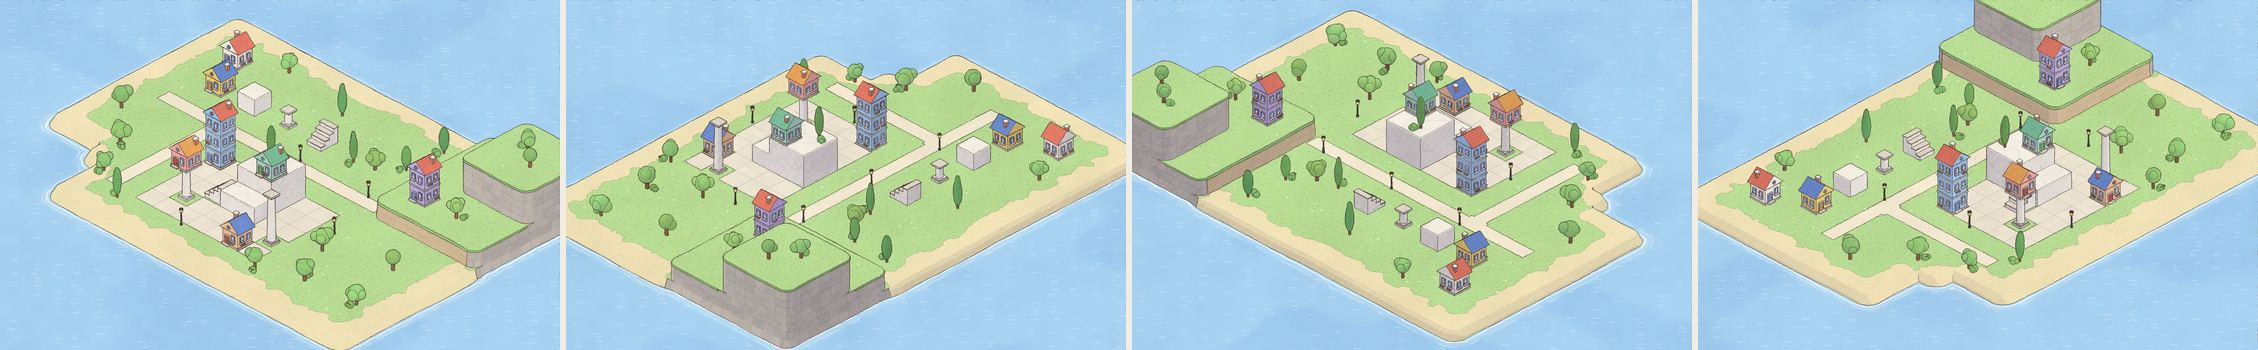
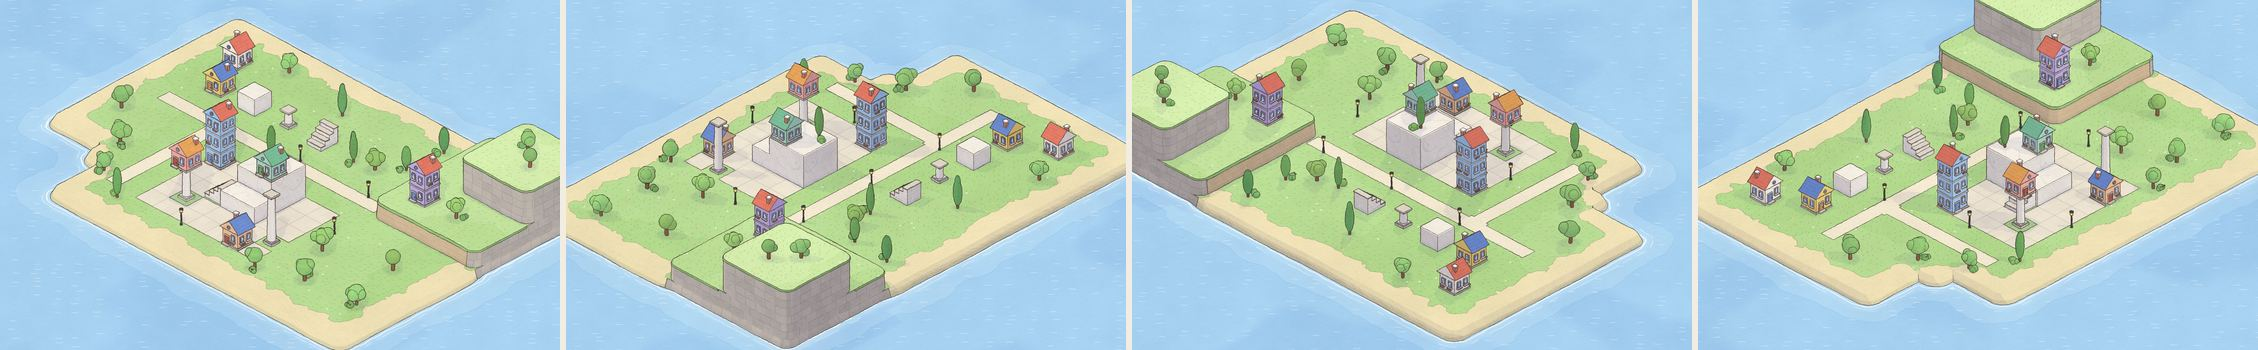
Look: hatching lies on the surface; art guide updated for the second pass
Hatching is laid in each surface's own plane, so it no longer slides when
the view orbits or zooms; its spacing on the page still holds at every zoom
(the spacing halves as the zoom doubles and the new strokes fade in between
the old). terraceGrass(level) gives the terrain's grass colour for lawn and
garden pieces. ART.md gains 'Changes since Stage 1' and a grounding section
with pictures; look.md lists what changed for other owners.

diff --git a/src/render/shaders/surface.ts b/src/render/shaders/surface.ts
@@ -5,7 +5,7 @@
 //   vertex    slot matrix (things that move), wind sway, varyings
 //   fragment  flat stepped shading from one fixed light (3–4 tones, shadows
 //             drifting cool), then the surface's pencil pattern, then
-//             screen-space pencil hatching in the shaded tones
+//             pencil hatching in the shaded tones and the grounding shade
 //   outputs   location 0: colour (sRGB) and glow in alpha
 //             location 1: view normal (xy) and the ink id (two bytes), which
 //             the composite pass turns into ink lines
@@ -198,6 +198,25 @@ float grounding(vec3 n){
     return max(foot, eave);
   }
   return 0.0;
+}
+
+// One layer of pencil strokes on a surface. p is a position in the surface's own plane (world
+// units) and dir the direction the strokes run in that plane, so the strokes belong to the surface
+// and do not slide over it when the view moves. Their spacing on the page still stays near
+// uHatchSpacing at every zoom: each time the zoom doubles the spacing halves, and the new strokes
+// fade in between the old ones, which stay exactly where they were.
+float hatchLayer(vec2 p, vec2 dir, float seed){
+  float lod = log2(max(uCss, 1.0) / 32.0);
+  float o = floor(lod), fr = lod - o, scr = exp2(fr);
+  vec2 q = p * (32.0 * exp2(o) / uHatchSpacing);          // in stroke spacings
+  float hv = dot(q, vec2(-dir.y, dir.x)) + (mix(n2(q * 0.16 + seed), n2(q * 0.32 + seed), fr) - 0.5) * 1.1 / scr;
+  float ha = dot(q, dir);
+  float d = abs(fract(hv) - 0.5);
+  float stroke = 1.0 - smoothstep(0.14 / scr, 0.36 / scr, d);
+  float between = (1.0 - smoothstep(0.14 / scr, 0.36 / scr, 0.5 - d)) * smoothstep(0.1, 0.9, fr);
+  // The pencil lifts here and there: patches of strokes, not a ruled screen.
+  float lifted = mix(n2(vec2(hv * 0.9 + seed, ha * 0.2)), n2(vec2(hv * 1.8 + seed, ha * 0.4)), fr);
+  return max(stroke, between) * smoothstep(0.3, 0.62, lifted);
 }
 
 float lineAA(float d, float w){ float fw = fwidth(d) * 1.2; return 1.0 - smoothstep(w - fw, w + fw, d); }
@@ -596,26 +615,21 @@ void main(){
       col = mix(col, shade(uFoam, s), lineAA(abs(fract(x) - 0.5), 0.08) * step(0.5, h1(vec2(floor(x), 0.0))) * 0.5 * fade(0.11));
     }
 
-    // ── pencil hatching in the shade. It is laid on the page, not on the surface (strokes keep one
-    //    density at every zoom), but it is anchored to the world so it does not slide when you pan.
-    vec2 sp = vec2(dot(vW, uCamRight), dot(vW, uCamUp)) * uCss;
-    float ang = 0.95 + (h1(vId * 91.7) - 0.5) * 0.4;
+    // ── pencil hatching in the shade, laid on the surface itself (see hatchLayer): it stays put when
+    //    the view pans, orbits or zooms.
+    bool flatish = abs(n.y) > 0.7;
+    vec2 hp = flatish ? vW.xz : vec2(dot(vW.xz, tang), vW.y);
+    float ang = (flatish ? 0.35 : 0.95) + (h1(vId * 91.7) - 0.5) * 0.4;
     vec2 hd = vec2(cos(ang), sin(ang));
-    float hv = dot(sp, vec2(-hd.y, hd.x)) / uHatchSpacing + (n2(sp * 0.03) - 0.5) * 1.1;
-    float ha = dot(sp, hd);
-    float stroke = 1.0 - smoothstep(0.14, 0.36, abs(fract(hv) - 0.5));
-    float broken = smoothstep(0.3, 0.62, n2(vec2(floor(hv) * 7.3, ha * 0.04)));
     float depth = s > 0.95 ? 0.22 : (s > 0.85 ? 0.5 : (s > 0.75 ? 0.8 : 1.0));
     // Grounding: a cooler, darker tone, and the pencil pressed harder there.
     float gnd = hatchable > 0.5 ? grounding(n) * uGround : 0.0;
     col *= mix(vec3(1.0), vec3(0.76, 0.77, 0.9), gnd);
     depth = max(depth, gnd * 1.15);
-    float amount = stroke * broken * depth;
+    float amount = hatchLayer(hp, hd, 0.0) * depth;
     if (s < 0.75) {
       // the darkest faces get a second, crossing layer
-      float hv2 = dot(sp, hd) / (uHatchSpacing * 1.3) + (n2(sp * 0.03 + 9.0) - 0.5) * 1.1;
-      float stroke2 = 1.0 - smoothstep(0.14, 0.36, abs(fract(hv2) - 0.5));
-      amount = max(amount, stroke2 * smoothstep(0.35, 0.65, n2(vec2(floor(hv2) * 5.1, dot(sp, vec2(-hd.y, hd.x)) * 0.04))) * 0.6);
+      amount = max(amount, hatchLayer(hp / 1.3, vec2(-hd.y, hd.x), 9.0) * 0.6);
     }
     col *= 1.0 - uHatch * hatchable * amount * 0.17;
     col = mix(col, uInk, clamp(pen * uPencil, 0.0, 1.0));

diff --git a/src/gen/terrain/terrain.gen.ts b/src/gen/terrain/terrain.gen.ts
@@ -36,9 +36,9 @@ import { hashCombine, rand } from '@/core/rand';
 import { MAT, type Terrain, type World } from '@/core/world';
 import type { ShapePlan } from '@/resolve/plan';
 import { PALETTE } from '@/style/palette';
-import { TERRAIN } from '@/style/terrain';
+import { terraceGrass, TERRAIN } from '@/style/terrain';
 import { defineLayer } from '../api';
-import { MeshBuilder, parseColor, PATTERN } from '../mesh';
+import { MeshBuilder, PATTERN } from '../mesh';
 
 /** Segments in a quarter-circle of outline. */
 const ARC = 6;
@@ -125,13 +125,6 @@ function edgeKind(g: Ground, hx: number, hz: number, lx: number, lz: number, lev
   return { shore, run, lip: shore !== 'sand' && m === MAT.grass && hi === level };
 }
 const harder = (a: EdgeKind, b: EdgeKind): EdgeKind => (HARDNESS[b.shore] > HARDNESS[a.shore] ? b : a);
-
-/** Grass colour by level: each terrace above the first is a step lighter, so plateaus read from every side. */
-function grassAt(level: number): [number, number, number] {
-  const a = parseColor(PALETTE.grass), b = parseColor(PALETTE.grassHigh);
-  const t = Math.min(1, Math.max(0, level - 1) * TERRAIN.levelTint);
-  return [Math.round(a[0] + (b[0] - a[0]) * t), Math.round(a[1] + (b[1] - a[1]) * t), Math.round(a[2] + (b[2] - a[2]) * t)];
-}
 
 // ───────────────────────────────────────────────────────────── emitters ──
 
@@ -241,7 +234,7 @@ function emitQuarter(b: MeshBuilder, g: Ground, x: number, z: number, sx: number
   };
   const rockTop = inA && hA === level && g.mat(x, z) === MAT.rock;
   if (rockTop) b.setColor(PALETTE.rock).setPattern(PATTERN.rock).setInk(`rocktop${level}`);
-  else b.setColor(grassAt(level)).setPattern(PATTERN.grass).setInk(`ground${level}`);
+  else b.setColor(terraceGrass(level)).setPattern(PATTERN.grass).setInk(`ground${level}`);
   const arc = (i: number): [number, number] => {
     const phi = (i / ARC) * (Math.PI / 2);
     return [r - r * Math.sin(phi), r - r * Math.cos(phi)];

diff --git a/src/gen/terrain/terrain.test.ts b/src/gen/terrain/terrain.test.ts
@@ -7,6 +7,7 @@ import { TerrainBuilder, TownBuilder } from '@/scenario';
 import { emptyWorld } from '@/world/world';
 import { inkGroups, validateMesh } from '../checks';
 import { EDGE_FAR, PATTERN, triangleCount, type MeshData } from '../mesh';
+import { terraceGrass } from '@/style/terrain';
 import { buildTerrainChunk, terrainLayer } from './terrain.gen';
 
 /** A hand-made island with everything the mesh must handle: beach, steps, a 2-level cliff, a cove, a peak. */
@@ -87,6 +88,22 @@ describe('the terrain layer', () => {
     }
     expect(nearest).toBeGreaterThan(0.05); // a square corner would have a vertex at distance 0
     expect(nearest).toBeLessThan(0.32);
+  });
+
+  test('each terrace above the first is a step lighter, and terraceGrass says which green', () => {
+    const colorAt = (mesh: MeshData, level: number): number[] => {
+      for (let v = 0; v < mesh.pattern.length; v++) {
+        if (mesh.pattern[v] === PATTERN.grass && Math.abs(mesh.position[v * 3 + 1]! - level * CELL_H) < 1e-6) return [...mesh.color.subarray(v * 3, v * 3 + 3)];
+      }
+      return [];
+    };
+    const mesh = meshOf(plan, 20, 20);
+    expect(colorAt(mesh, 2)).toEqual(terraceGrass(2));
+    expect(colorAt(mesh, 4)).toEqual(terraceGrass(4));
+    const sum = (c: number[]): number => c[0]! + c[1]! + c[2]!;
+    expect(sum(terraceGrass(2))).toBeGreaterThan(sum(terraceGrass(1)));
+    expect(sum(terraceGrass(4))).toBeGreaterThan(sum(terraceGrass(2)));
+    expect(terraceGrass(1)).toEqual([0xb9, 0xdc, 0x94]); // the lowest land is the palette's grass
   });
 
   test('a drop of two or more is rock; one level is an earth bank with a grass lip; sand meets the sea as a beach', () => {

diff --git a/src/render/view.e2e.test.ts b/src/render/view.e2e.test.ts
@@ -184,6 +184,20 @@ describe('the view', () => {
     expect(errors).toEqual([]);
   });
 
+  test('hatching belongs to the surface: it does not pop where its spacing halves as the view zooms in', async () => {
+    // The stroke spacing halves each time the zoom doubles (here at 64 CSS pixels per unit: zoom 7.68 at
+    // this size). Old strokes stay where they are and new ones fade in between, so a hair either side of
+    // that zoom the picture is the same, just as it is for a hair's change anywhere else.
+    await look(`window.__look.open('look-primitives', { ink: 'full' })`);
+    const at = async (zoom: number): Promise<FrameSummary> => {
+      await look(`window.__look.camera({ yaw: 215, pitch: 30, zoom: ${zoom}, target: [21, 1.5, 24.5] })`);
+      return settled();
+    };
+    const across = differ(await at(7.675), await at(7.685));
+    const elsewhere = differ(await at(7.2), await at(7.21));
+    expect(across).toBeLessThan(elsewhere * 1.5 + 0.05);
+  });
+
   test('flat ground and open sea never ink over, however far out or low the view (phone, half ink)', async () => {
     for (const ink of ['half', 'full']) {
       await look(`window.__look.open('look-isle-1', { ink: '${ink}', pixelRatio: 2, width: 390, height: 844 })`);

diff --git a/src/style/terrain.ts b/src/style/terrain.ts
@@ -2,6 +2,7 @@
 // src/gen/terrain. All lengths are world units (a cell is 1 wide, 0.8 tall).
 
 import { defineStyle } from '@/core/style';
+import { PALETTE } from './palette';
 
 export const TERRAIN = defineStyle(
   'terrain',
@@ -48,3 +49,18 @@ export const TERRAIN = defineStyle(
     earthDepth: [0.2, 2, 0.05],
   },
 );
+
+/**
+ * The grass colour of the terrain at a level (1 is the lowest land): each terrace above the first
+ * leans a step toward PALETTE.grassHigh, so plateaus read from every side. A lawn or garden piece
+ * that should melt into the ground it lies on uses this instead of PALETTE.grass.
+ */
+export function terraceGrass(level: number): [number, number, number] {
+  const rgb = (hex: string): [number, number, number] => {
+    const n = Number.parseInt(hex.slice(1), 16);
+    return [(n >> 16) & 255, (n >> 8) & 255, n & 255];
+  };
+  const a = rgb(PALETTE.grass), b = rgb(PALETTE.grassHigh);
+  const t = Math.min(1, Math.max(0, level - 1) * TERRAIN.levelTint);
+  return [Math.round(a[0] + (b[0] - a[0]) * t), Math.round(a[1] + (b[1] - a[1]) * t), Math.round(a[2] + (b[2] - a[2]) * t)];
+}

diff --git a/scenarios/look/look-primitives.scenario.ts b/scenarios/look/look-primitives.scenario.ts
@@ -84,6 +84,10 @@ export default scenario({
     { name: 'night', yaw: 45, pitch: 32, zoom: 3.3, target: [23, 1, 23.5], time: 'night' },
     { name: 'night-close', yaw: 45, pitch: 32, zoom: 8.5, target: [23, 2, 26], time: 'night' },
     { name: 'dawn', yaw: 135, pitch: 30, zoom: 5, target: [23, 1.5, 24], time: 'dawn' },
+    // From the north-west the shadow side faces the viewer: the grounding shade, by day and at dusk.
+    { name: 'shade', yaw: 215, pitch: 30, zoom: 7.5, target: [21, 1.5, 24.5] },
+    { name: 'shade-dusk', yaw: 215, pitch: 30, zoom: 7.5, target: [21, 1.5, 24.5], time: 'dusk' },
+    { name: 'shade-night', yaw: 215, pitch: 30, zoom: 7.5, target: [21, 1.5, 24.5], time: 'night' },
   ],
   expect(plan, dressing, check) {
     check.kind(20, 3, 24, 'house');

diff --git a/docs/swarm/art/make-images.py b/docs/swarm/art/make-images.py
@@ -5,6 +5,8 @@
     npm run shots -- look-island     --scale 2 --out .context/art
     npm run shots -- look-swatches   --scale 2 --out .context/art --size 1600x900
     npm run shots -- look-dodont     --scale 2 --out .context/art --size 1600x700
+    npm run shots -- look-generated-2 --scale 2 --out .context/art
+    node docs/swarm/art/ghost-shot.mjs
     python3 docs/swarm/art/make-images.py
 
 Needs Pillow. Every output is a JPEG under 300 kB.
@@ -197,6 +199,36 @@ def terrain():
     save(out, "terrain.jpg", 80)
 
 
+def grounding():
+    names = [("look-primitives-shade", "day: contact, cover and a short cast shade"), ("look-primitives-shade-dusk", "dusk: the light is low, the shade reaches further")]
+    w = 800
+    tiles = [fit(shot(n), w) for n, _ in names]
+    h = tiles[0].size[1]
+    out = Image.new("RGB", (w * 2 + 8, h), PAPER)
+    d = ImageDraw.Draw(out)
+    for i, (tile, (_, text)) in enumerate(zip(tiles, names)):
+        out.paste(tile, (i * (w + 8), 0))
+        label(d, (i * (w + 8) + 12, 10), text)
+    save(out, "grounding.jpg", 82)
+
+
+def ghost():
+    im = shot("ghost")
+    w, h = im.size
+    save(fit(im.crop((round(w * 0.14), round(h * 0.08), round(w * 0.92), round(h * 0.86))), 1000), "ghost.jpg", 84)
+
+
+def island():
+    a, b = fit(shot("look-generated-2-sw"), 800), fit(shot("look-generated-2-dusk"), 800)
+    out = Image.new("RGB", (1608, a.size[1]), PAPER)
+    out.paste(a, (0, 0))
+    out.paste(b, (808, 0))
+    d = ImageDraw.Draw(out)
+    label(d, (12, 10), "a generated island by day")
+    label(d, (820, 10), "and at dusk")
+    save(out, "island.jpg", 80)
+
+
 def quarters():
     names = ["hero", "hero-se", "hero-nw", "hero-ne"]
     w = 560
@@ -210,6 +242,6 @@ def quarters():
 
 if __name__ == "__main__":
     only = sys.argv[1:]
-    for fn in (hero, spike_vs_engine, proportions, patterns, do_dont, times, night_close, terrain, quarters):
+    for fn in (hero, spike_vs_engine, proportions, patterns, do_dont, times, night_close, terrain, quarters, grounding, ghost, island):
         if not only or fn.__name__ in only:
             fn()

diff --git a/docs/swarm/ART.md b/docs/swarm/ART.md
@@ -6,6 +6,39 @@ examples are real code: `scenarios/look/fixtures/` holds the spike's house,
 tree, marble, pillar, stairs and lamp rebuilt with `MeshBuilder`, and every
 picture here comes from `npm run shots -- 'look-*'`.
 
+## Changes since Stage 1
+
+Nothing below asks you to redo anything; every rule in the rest of this
+guide still stands. These are things the page now does for you, and what
+follows from them.
+
+1. **Pieces are grounded by the page** (new section 11). Contact shade round
+   the foot of everything, shade under anything that overhangs, a short cast
+   shade on the side away from the light, a darker foot on walls. You do
+   nothing, and you must not fake any of it: no dark base bands, no shadow
+   quads, no darker colour under an eave. Do build real overhangs (eaves,
+   awnings, balconies, arch soffits) of 0.08 or more: they now shade what is
+   under them. And pieces must still really stand on the ground: the shade
+   is worked out from above and does not hide a gap under a piece.
+2. **Hatching lies on the surface**, in the surface's own plane, and each ink
+   group gets a slightly different stroke angle. It needs nothing but correct
+   normals. It no longer slides when the view orbits or zooms.
+3. **The ghost preview is a pencil sketch of your piece**: a pale wash of its
+   colours with pencil lines exactly where its ink lines will be (section
+   4). Patterns are left out. So a piece with good ink groups previews well,
+   and one with none previews as a blank shape.
+4. **Terrain grass is a step lighter on each terrace above the first**, and
+   has wandering patches of deeper meadow. A lawn or garden piece that should
+   melt into the ground it lies on takes its colour from
+   `terraceGrass(level)` in `src/style/terrain.ts` (level 1 is the lowest
+   land, and is `PALETTE.grass` as before). `PALETTE.grassHigh` is new.
+5. **Any style value you change redraws the town**, in the game's tuning
+   panel and in the gallery. Read style values inside `build`, never at
+   module load, or the redraw will not see the change.
+6. **Water**: things standing in `PATTERN.water` (a dock post, a hull) get a
+   soft contact shade on the water by themselves. The sea keeps its blue at
+   dusk. Nothing changes in how you use the pattern.
+
 ![The look](art/hero.jpg)
 
 The look is **an ink-and-coloured-pencil drawing on cream paper**: flat
@@ -33,7 +66,8 @@ You do **not** shade, outline, hatch, light or darken anything yourself. Never
 bake a shadow into a colour, never add a dark box to fake an outline, never
 pick a darker colour for "the side in shade": the shader steps the tone from
 the face's normal (top 100%, then 90, 79, 71, 66%, drifting cool) and hatches
-the darker steps. Give it correct normals and it draws.
+the darker steps. Give it correct normals and it draws. The same goes for
+the shade a piece throws on the ground and on itself (section 11).
 
 ## 2. Palette
 
@@ -312,3 +346,48 @@ Terrain, for reference: rounded terraces, earth banks with a grass lip,
 rock where the drop is two levels or more, a beach that slopes into the sea.
 
 ![Terrain](art/terrain.jpg)
+
+## 11. Grounding (the page does this; added after Stage 1)
+
+![Grounding](art/grounding.jpg)
+
+Pieces sit on the ground in a soft pencilled shade, drawn the way an
+illustrator shades rather than the way a renderer casts shadows:
+
+- **contact**: a darker, cooler tone hugging the foot of anything that
+  stands on a surface, on every side;
+- **cover**: whatever is under a crown, an arch, a deck, a house on stilts
+  or an eave is in shade, with the outline of the thing above it;
+- **cast**: a short shade on the side away from the light (north-west),
+  with a wandering edge; longer at dusk, faint at night;
+- **foot**: walls darken a little where they meet the ground and just under
+  an overhang.
+
+It all comes from one picture of the town's heights seen from straight
+above, so it follows directly from your geometry:
+
+- It sees the **highest surface over each point**, and nothing else. What
+  matters is the outline of your piece from above, and how high it is.
+- **Overhangs shade what is under them.** An eave 0.12 out gives the wall a
+  band of shade under it; an awning shades the door; a bridge shades the
+  water. Model them as real geometry and you get this free.
+- **Things must still touch.** The shade is worked out from above, so it
+  cannot tell that a piece hovers 0.01 over the ground: the gap still shows
+  as a line of light under it. Keep feet on the ground.
+- Thin things throw thin shade (a lamp post's is a pencil line). Do not
+  thicken them to get more.
+- Light beams and the ghost throw none. Props and actors do, like
+  everything else.
+
+Its strength is `LOOK.ground` and the light's angle by time of day is in the
+`grade` style (`daySlope`, `duskSlope`, and so on); they are the page's.
+
+The ghost preview, for reference: a wash of the piece's colours with pencil
+lines where its ink lines will be.
+
+![The ghost preview](art/ghost.jpg)
+
+A generated island, by day and at dusk: lighter terraces, meadow patches,
+the sea paling toward the shore in two contoured steps.
+
+![A generated island](art/island.jpg)

diff --git a/docs/swarm/requests/look.md b/docs/swarm/requests/look.md
@@ -85,6 +85,36 @@ No change. `LifeStage` and `InstanceHandle` are implemented as written.
 - New style modules: `look` and `grade` (`src/style/look.ts`), `terrain`,
   `wind`. All live, all with slider ranges for the gallery.
 
+## Second pass (during Stage 2)
+
+No further changes to frozen files. Things that changed for other owners:
+
+- **Grounding.** The view draws the town from straight above into a height
+  picture (only when geometry changes or something moves) and shades the
+  ground from it: contact, cover under overhangs, a short cast shade, a
+  darker foot on walls. `docs/swarm/ART.md` section 11 says what follows for
+  geometry. Strength: `LOOK.ground` (0 switches it off). For Animation and
+  People: anything that moves makes the picture redraw, at most every other
+  frame; it costs one extra pass over the geometry on those frames.
+- **Draw calls.** A still town is still about 11 calls a frame. A frame in
+  which geometry changed or something moved adds about 10 (the height
+  picture); a frame with the ghost showing adds 2.
+- **`styleVersion()` is in every cache key.** A changed style value rebuilds
+  every mesh on the next `setTown` or, failing that, the next `render`, and
+  keeps lifted structures lifted and props on their slots (the handles life
+  holds stay valid). Values in the modules `look`, `grade`, `wind` and
+  `time` are read every frame and cost no rebuild.
+- **`setParams`**: a negative `a` (glow) is reserved; the view marks its own
+  ghost slots with it. `c` and `d` are free.
+- **The ghost** is drawn from the same generators with pencil lines where
+  the ink groups change. Interface need not do anything.
+- **New style values**: `PALETTE.grassHigh`; `TERRAIN.levelTint`;
+  `LOOK.ground`, `LOOK.seaKeep`; `GRADE.<part>Slope` and `GRADE.<part>Cast`.
+  `terraceGrass(level)` in `src/style/terrain.ts` gives the terrain's grass
+  colour at a level, for lawn and garden pieces that should match it.
+- **New look scenarios**: `look-generated`, `look-generated-2`, `-3`, `-4`
+  (the real generator, four seeds, four sides).
+
 ## Requests
 
 None outstanding.
